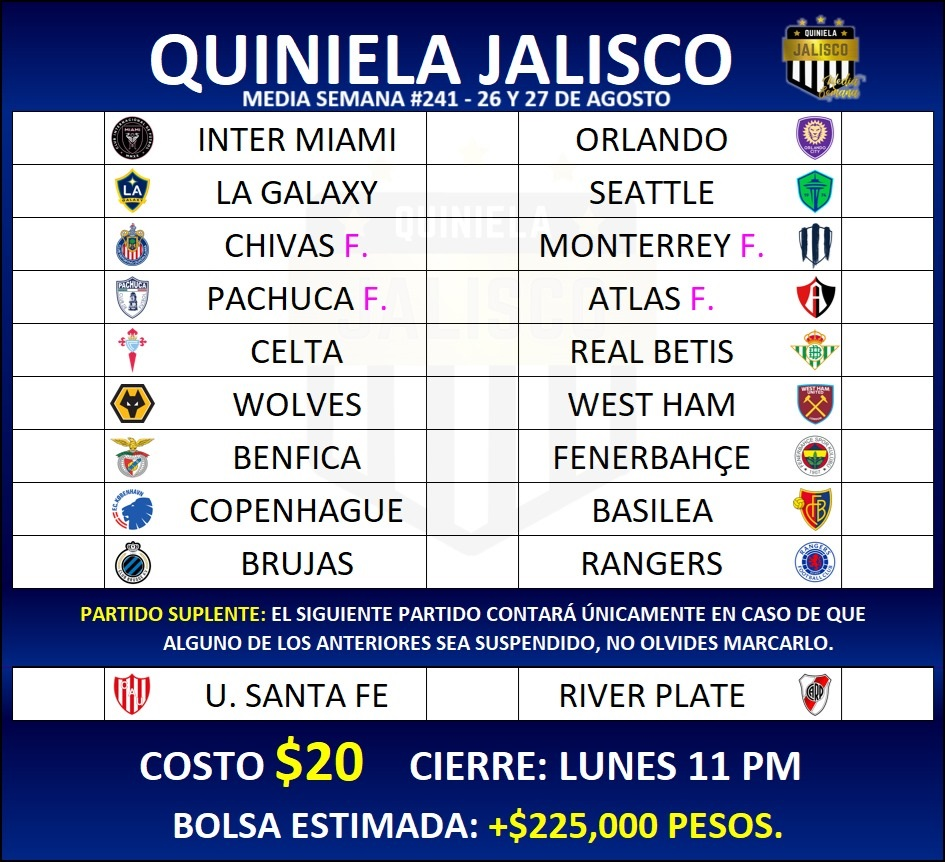
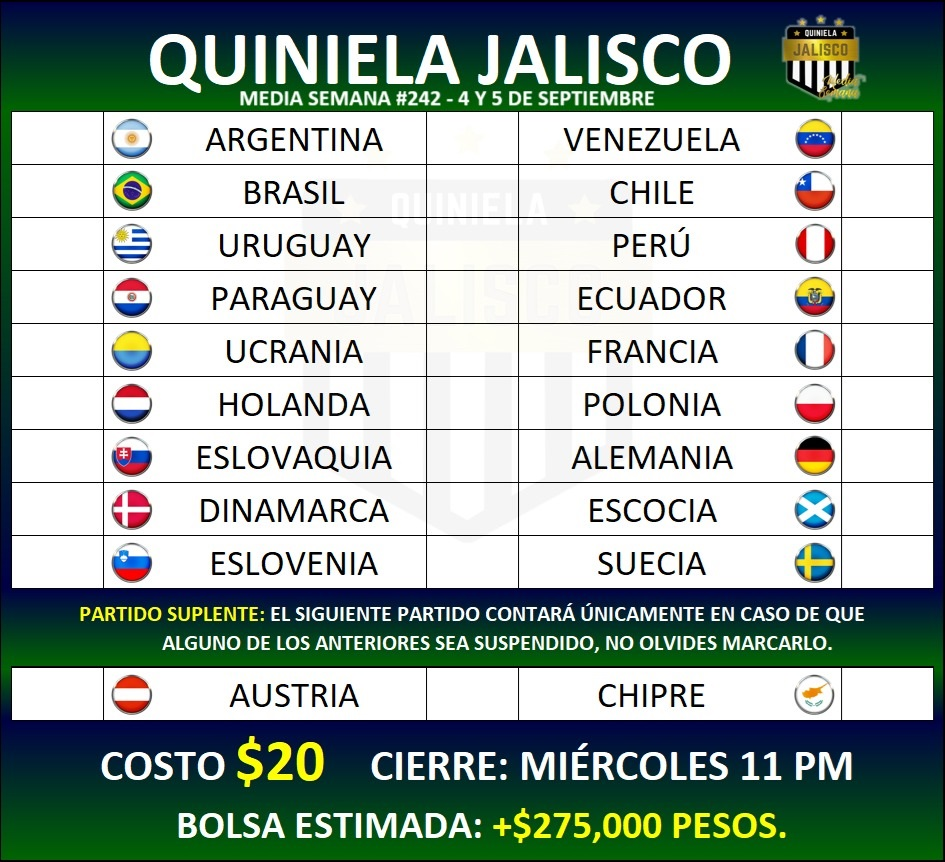
media Semana #242

diff --git a/MediaSemana/stylesmSusp.css b/MediaSemana/stylesmSusp.css
@@ -94,8 +94,8 @@ body{
     margin-top: 9%;
     border: solid 1px black;
     border-radius: 0 0 14px 14px;
-    background: -webkit-linear-gradient(0.49turn, rgb(0 37 134) -7%, rgb(0 6 82) 80%);
-    background: linear-gradient(0.49turn, rgb(0 37 134) -7%, rgb(0 6 82) 80%);
+    background: -webkit-linear-gradient(0.49turn, rgb(1 56 33) -7%, rgb(0 6 82) 80%);
+    background: linear-gradient(0.49turn, rgb(1 56 33) -7%, rgb(0 6 82) 80%);
 }
 
 .text-lg{
@@ -294,7 +294,7 @@ h6{
 }
 
 #cantidad:before{
-    content:' $225,000 pesos';
+    content:' +$275,000 pesos';
     color: yellow;
     white-space:pre;
 }
